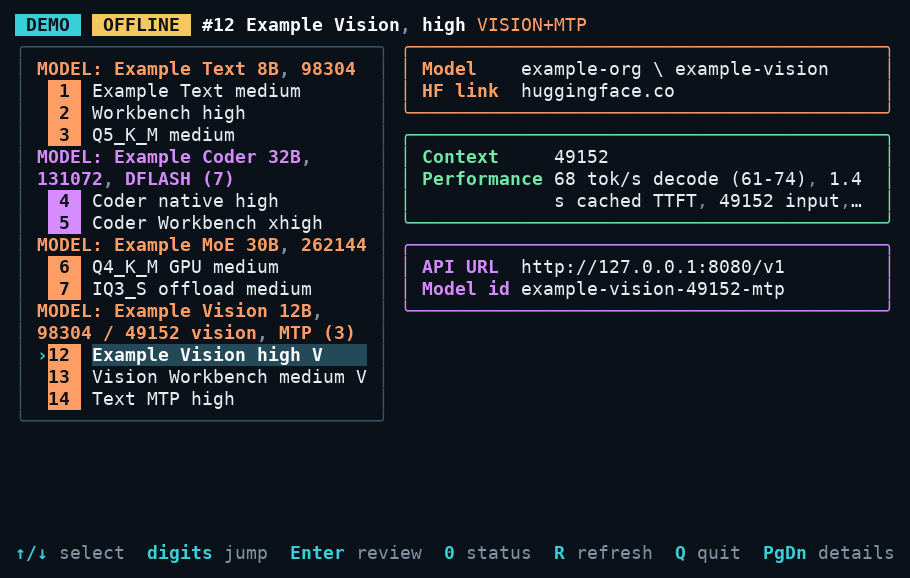
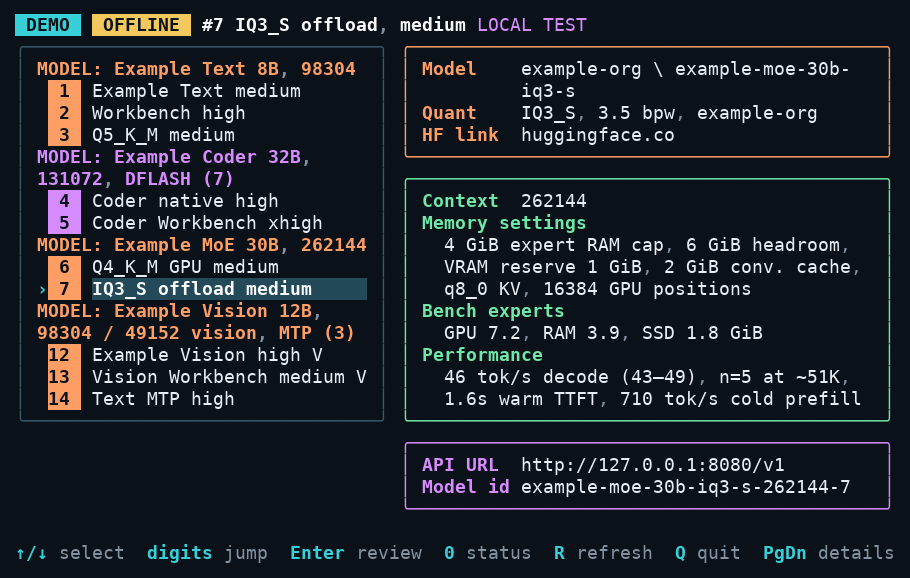
Show expert memory and benchmark details

diff --git a/main.go b/main.go
@@ -568,8 +568,12 @@ func profileFacts(p profile) map[string]string {
 
 func renderKV(label, value string, width, labelWidth int, accent lipgloss.Color, limit int) string {
 	valueWidth := width
+	indent := ""
 	if labelWidth > 0 {
 		valueWidth -= labelWidth + 1
+	} else if width >= 16 {
+		indent = "  "
+		valueWidth -= len(indent)
 	}
 	var link string
 	if label == "HF link" && strings.HasPrefix(value, "https://huggingface.co/") && renderer.ColorProfile().Name() != "Ascii" {
@@ -585,7 +589,7 @@ func renderKV(label, value string, width, labelWidth int, accent lipgloss.Color,
 	}
 	lines := wrapLines(value, valueWidth, limit)
 	for i, line := range lines {
-		lines[i] = styledText(valueText, line)
+		lines[i] = indent + styledText(valueText, line)
 		if link != "" {
 			lines[i] = ansi.SetHyperlink(link) + lines[i] + ansi.ResetHyperlink()
 		}
@@ -596,6 +600,13 @@ func renderKV(label, value string, width, labelWidth int, accent lipgloss.Color,
 	return lipgloss.JoinHorizontal(lipgloss.Top, labelStyle.Render(label), " ", strings.Join(lines, "\n"))
 }
 
+func stackedSummaryRow(label string, accent lipgloss.Color, limit int) bool {
+	if accent != green || limit == 0 {
+		return false
+	}
+	return label == "Memory settings" || label == "Bench experts" || label == "Performance"
+}
+
 func section(rows [][]string, width int, accent lipgloss.Color, limit int) string {
 	style := panel.BorderForeground(accent)
 	if width < 19 {
@@ -604,7 +615,8 @@ func section(rows [][]string, width int, accent lipgloss.Color, limit int) strin
 	inner := width - style.GetHorizontalFrameSize()
 	labelWidth := 8
 	for _, row := range rows {
-		if len(row) == 2 && row[1] != "" && row[0] != "Estimated Vram/Ram Usage" {
+		if len(row) == 2 && row[1] != "" && row[0] != "Estimated Vram/Ram Usage" &&
+			!stackedSummaryRow(row[0], accent, limit) {
 			labelWidth = max(labelWidth, lipgloss.Width(row[0]))
 		}
 	}
@@ -624,6 +636,12 @@ func section(rows [][]string, width int, accent lipgloss.Color, limit int) strin
 			lines := wrapLines(row[0]+": "+row[1], inner, limit)
 			lines[0] = strings.Replace(lines[0], row[0]+":", labelStyle.Render(row[0]+":"), 1)
 			content = append(content, strings.Join(lines, "\n"))
+		} else if stackedSummaryRow(row[0], accent, limit) {
+			rowLimit := limit
+			if limit == 2 && row[0] != "Bench experts" {
+				rowLimit = 3
+			}
+			content = append(content, renderKV(row[0], row[1], inner, 0, accent, rowLimit))
 		} else {
 			content = append(content, renderKV(row[0], row[1], inner, labelWidth, accent, limit))
 		}
@@ -662,18 +680,18 @@ func summarySections(p profile) [][][]string {
 	}
 	return [][][]string{
 		{{"Model", values["Model"]}, {"Quant", values["Quant"]}, {"HF link", values["HF link"]}},
-		{{"Context", values["Context"]}, {"Performance", values["Performance"]}},
+		{{"Context", values["Context"]}, {"Memory settings", values["Memory settings"]},
+			{"Bench experts", values["Bench experts"]}, {"Performance", values["Performance"]}},
 		{{"API URL", values["API URL"]}, {"Model id", values["Model id"]}},
 	}
 }
 
-func detailsBody(m model, width int, compact bool) string {
+func detailsBody(m model, width, limit int) string {
 	p := m.catalog.Profiles[m.cursor]
 	sections := p.CompactSections
-	limit := 0
+	compact := limit > 0
 	if compact {
 		sections = summarySections(p)
-		limit = 2
 	} else if len(sections) > 0 && width < 100 {
 		// Keep the projector on the Vision row when the pane is narrow.
 		overview := sections[0]
@@ -905,7 +923,7 @@ func (m model) detailLayout() detailLayout {
 	if d.split {
 		d.width -= d.listWidth + 1
 	}
-	d.lines = strings.Split(detailsBody(m, d.width, false), "\n")
+	d.lines = strings.Split(detailsBody(m, d.width, 0), "\n")
 	return d
 }
 
@@ -922,9 +940,11 @@ func (d detailLayout) pageCount() int {
 }
 
 func compactDetails(m model, width, height int) string {
-	body := detailsBody(m, width, true)
-	if lipgloss.Height(body) <= height {
-		return body
+	for _, limit := range []int{2, 1} {
+		body := detailsBody(m, width, limit)
+		if lipgloss.Height(body) <= height {
+			return body
+		}
 	}
 	p := m.catalog.Profiles[m.cursor]
 	values := profileFacts(p)

diff --git a/main_test.go b/main_test.go
@@ -79,6 +79,26 @@ func TestFixtureLayout(t *testing.T) {
 	}
 }
 
+func TestExpertBenchmarkRows(t *testing.T) {
+	c, err := loadCatalog("examples/catalog.json")
+	if err != nil {
+		t.Fatal(err)
+	}
+	m := initialModel(c)
+	m.cursor = indexOfID(c.Profiles, 7)
+	for _, size := range []tea.WindowSizeMsg{{Width: 80, Height: 25}, {Width: 120, Height: 50}} {
+		m.width, m.height = size.Width, size.Height
+		screen := ansi.Strip(m.View())
+		for _, want := range []string{"Memory settings", "4 GiB expert RAM cap", "Bench experts", "GPU 7.2",
+			"Performance", "46 tok/s decode", "API URL", c.Profiles[m.cursor].ServedID} {
+			if !strings.Contains(screen, want) {
+				t.Errorf("%d×%d missing %q:\n%s", m.width, m.height, want, screen)
+			}
+		}
+		assertFits(t, m, screen)
+	}
+}
+
 func TestLargeCatalogPicker(t *testing.T) {
 	c, err := loadCatalog("examples/catalog.json")
 	if err != nil {

diff --git a/LAYOUT.md b/LAYOUT.md
@@ -41,6 +41,14 @@ measured usage are different facts.
 
 ## Performance
 
+Keep these rows in the green runtime box when the adapter supplies them.
+
+| Row | Content |
+| --- | --- |
+| `Memory settings` | Configured expert RAM cap, startup RAM headroom, VRAM reserve, KV precision and GPU-resident positions, and conversation-cache budget. |
+| `Bench experts` | Measured expert placement across GPU, host RAM, and SSD from the saved benchmark. |
+| `Performance` | Measured decode and prefill rates, time to first token, memory observations, and the benchmark context and sample count. |
+
 Use a green-box `Performance` or `PERF` row.
 Example, synthetic: `68 tok/s decode (61-74), 1.4 s cached TTFT, 49152 input, n=5`.
 Name the metric: decode is not prefill, cached TTFT is not cold TTFT, and neither
@@ -69,8 +77,10 @@ selected ID and its group visible and show the visible range in the picker.
 
 Show all three detail boxes when they fit. When a profile needs more rows,
 keep the same colors in a compact overview with model, quant, HF link,
-context, performance, API URL, and served ID when supplied. Page Down opens
-the full detail pages. Page Up returns to the overview from the first page.
+context, memory settings, benchmark expert placement, performance, API URL,
+and served ID when supplied. Use the runtime box width for longer summary
+rows. Page Down opens the full values and Page Up returns to the overview
+from the first page.
 Keep the picker visible beside the details while both panes fit. In a narrower
 or shorter terminal, Page Down opens details across the full width and Page Up
 returns to the picker from the first page. The footer shows the available

diff --git a/README.md b/README.md
@@ -7,12 +7,13 @@ Confirm a profile and the launcher starts the LLM in the background, reports
 readiness and connection details, then returns you to the shell. This repo
 provides the reusable picker and a demo with fictional profiles.
 
-![LLM TUI at 80 columns by 25 rows with ten example profiles and a vision profile selected](examples/picker-80x25.png)
+![LLM TUI at 80×25 with an expert-offload profile selected, showing Memory settings, Bench experts, and Performance](examples/picker-80x25.png)
 
 - [Layout and measurement rules](LAYOUT.md): the approved visual contract.
 - [Catalog and result protocol](PROTOCOL.md): adapter contract and workflow.
-- [Synthetic example](examples/catalog.json): text-only and vision profiles,
-  draft and no-draft cases, measured and unmeasured performance examples.
+- [Synthetic example](examples/catalog.json): ten profiles covering text,
+  vision, drafting, and expert offload. Profile 7 shows the memory settings
+  alongside example expert placement and benchmark results.
 - [Renderer](main.go): adapted from the approved vLLM Bubble Tea/Lip Gloss UI,
   with the file handoff used by the Windows launcher family. See [go.mod](go.mod)
   and [go.sum](go.sum) for inherited dependency pins. No new license is granted
